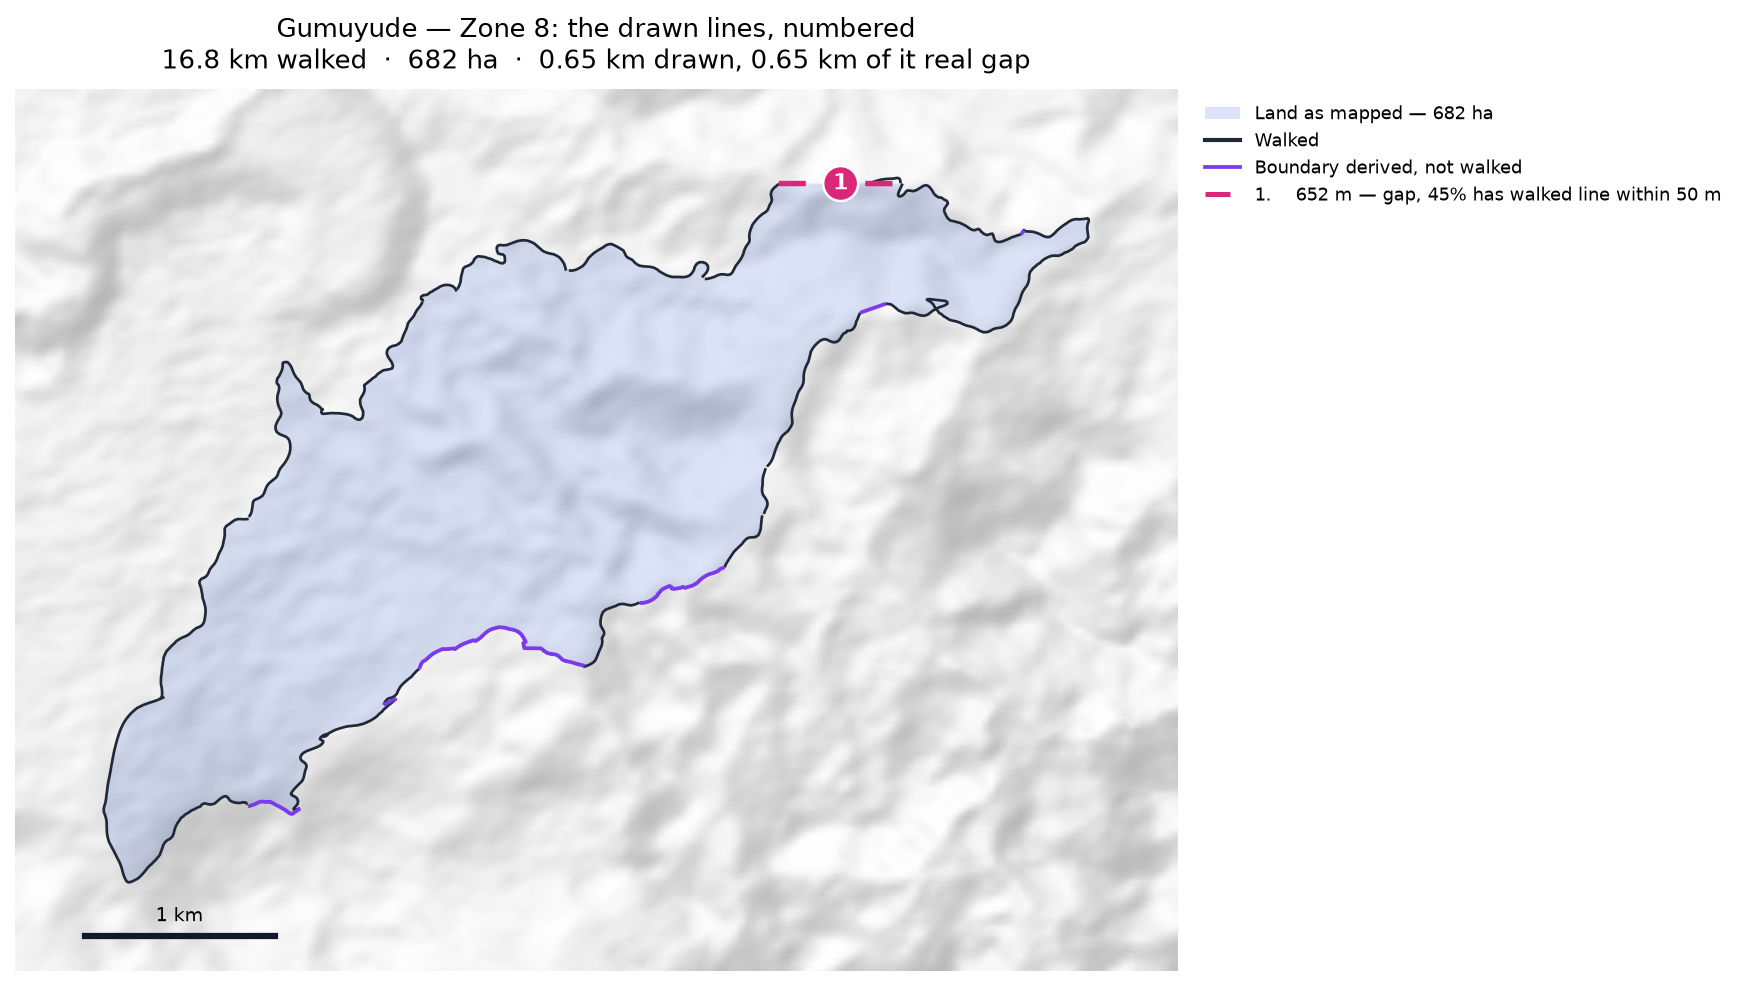
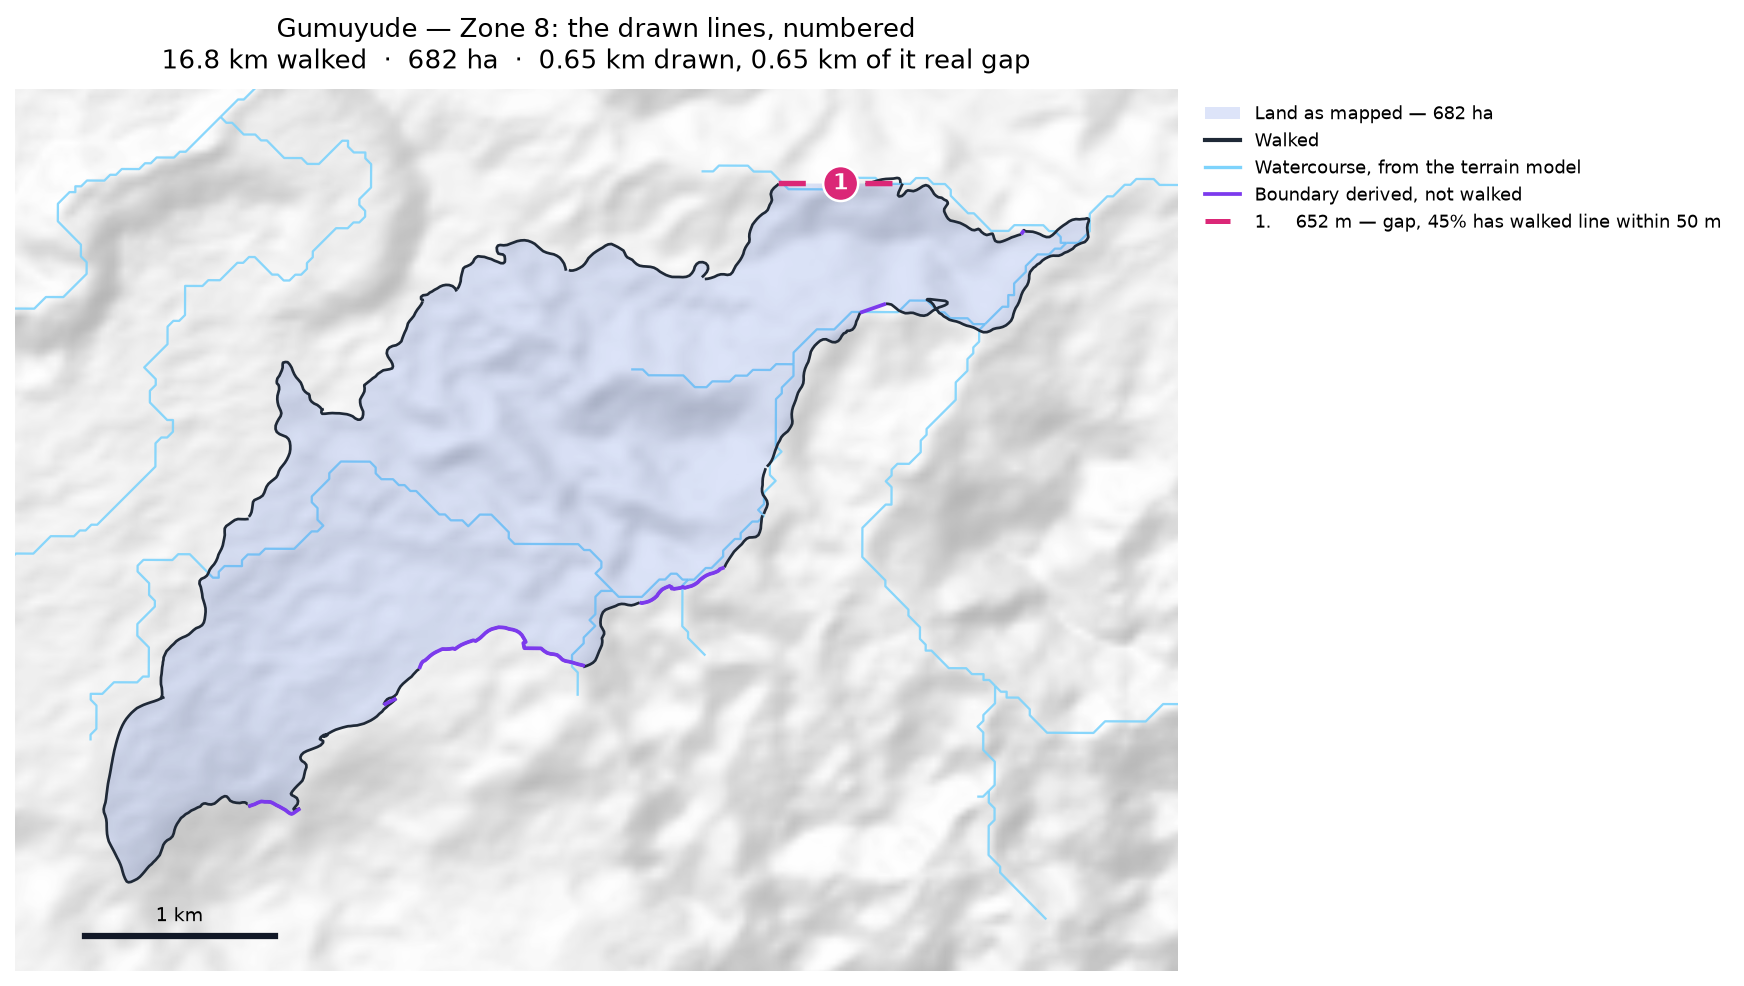
Approve a clan's map into the document, and put water on the chord maps
scripts/approve.py records the end of a clan's review: the map as agreed, the
date, and what is still to be done. The map is copied out of output/queries,
which every run rebuilds, into output/clans/approved, which nothing does — a
map that changes after it was agreed is not an approved map, and the clan
page would show something nobody had seen. Where an approval exists the clan
page uses that map and lists the outstanding work under "To complete this
map".

Gumuyude approved, with two items: walk the 652 m gap, and confirm what the
north-eastern notch is.

The chord maps now carry the modelled drainage behind them. Villages and
roads were the ask and cannot be had: our own road data is 13 fragments
totalling 4.3 km, villages appear only as names in the stewards' notes with
no positions, and OpenStreetMap is blocked by the environment's network
policy. Water is what the stewards navigate by in any case — down the Salm
to the Makamata fall, along the Baraje — and it is already in the repository.

Claude-Session: https://claude.ai/code/session_01K6X75MkuiGQ9rmgDZx45vk

diff --git a/scripts/build_report_docx.js b/scripts/build_report_docx.js
@@ -352,12 +352,24 @@ for (const c of clans) {
     body.push(p(`A GPX file for this clan is supplied as ${c.gpx}. Loaded onto the phone or handheld the boundary was mapped with, it shows the stewards' own tracks` + (c.gpx_gaps ? `, the ${c.gpx_gaps} gap${c.gpx_gaps===1?"":"s"} drawn as straight lines, and a waypoint at each end of every gap so a steward can navigate to where the walking stopped and carry on.` : ` and confirms the boundary closes with no gaps to walk.`), {size:21}));
   }
 
-  if (c.map) {
+  // An approved map is one that was looked at with someone who knows the
+  // ground and agreed, kept where re-running the pipeline cannot change it.
+  // Where there is one, it is the map this page shows.
+  if (c.approved && c.approved.map) {
+    body.push(p("Map", {bold:true, size:21, para:{ spacing:{ before:160 } }}));
+    body.push(img(path.join("output/clans/approved", c.approved.map), 620, 470));
+    body.push(note(`Approved ${c.approved.on}. Numbered lines are stretches the pipeline drew rather than anyone walked, each measured by how much walked line runs beside it. Neighbouring clans are named where they lie; their boundaries are not drawn.`));
+  } else if (c.map) {
     body.push(p("Map", {bold:true, size:21, para:{ spacing:{ before:160 } }}));
     body.push(img(path.join("output/clans", c.map), 620, 470));
     body.push(note(c.n_stewards > 1
       ? "Each steward's line and the area it gives alone (dashed); the survey they combine into, dotted; the stretches nobody walked in pink. Neighbouring clans are named where they lie; their boundaries are not drawn."
       : "The walk and the area it gives (dotted), with the stretches nobody walked in pink. Neighbouring clans are named where they lie; their boundaries are not drawn."));
+  }
+
+  if (c.approved && c.approved.todo && c.approved.todo.length) {
+    body.push(p("To complete this map", {bold:true, size:21}));
+    body.push(...bullets(c.approved.todo));
   }
 }
 

diff --git a/scripts/approve.py b/scripts/approve.py
@@ -1,0 +1,115 @@
+#!/usr/bin/env python3
+"""Mark a clan's map as approved, and record what is left to do on it.
+
+Clan by clan, the chord map is looked at with someone who knows the ground,
+the chords are discussed, what can be fixed is fixed, and what is left is
+written down. This records the end of that: the map as approved, the date it
+was approved, and the work still outstanding.
+
+An approved map does not move afterwards. The file is copied out of
+output/queries, which is rebuilt whenever anything is re-run, into
+output/clans/approved, which is not. A map that changes after it was agreed
+is not an approved map, and the clan page would be showing something nobody
+had seen.
+
+The outstanding items go on the clan's page under "To complete this map",
+in the order given.
+
+Usage:
+    python scripts/approve.py --clan Gumuyude \\
+        --todo "Walk the 652 m gap on the northern shoulder" \\
+        --todo "Confirm with the clan what the notch on the north-east is"
+"""
+
+from __future__ import annotations
+
+import argparse
+import json
+import shutil
+import sys
+from datetime import date
+from pathlib import Path
+
+import geopandas as gpd
+
+sys.path.insert(0, str(Path(__file__).resolve().parent))
+import dataio  # noqa: E402
+
+REGISTER = dataio.REPO_ROOT / "data" / "reference" / "approved.json"
+APPROVED_DIR = dataio.OUT_DIR / "clans" / "approved"
+
+
+def load() -> dict:
+    if not REGISTER.exists():
+        return {}
+    try:
+        return json.loads(REGISTER.read_text(encoding="utf-8"))
+    except Exception:
+        return {}
+
+
+def approved(unit: str | None = None):
+    """What has been approved, for the report to read."""
+    book = load()
+    return book if unit is None else book.get(unit)
+
+
+def main(argv: list[str] | None = None) -> int:
+    parser = argparse.ArgumentParser(
+        description=__doc__,
+        formatter_class=argparse.RawDescriptionHelpFormatter)
+    parser.add_argument("--clan", required=True)
+    parser.add_argument("--todo", action="append", default=[],
+                        help="one thing still to be done; repeat for each")
+    parser.add_argument("--map", type=Path, default=None,
+                        help="the map approved (default: this clan's chord map)")
+    parser.add_argument("--withdraw", action="store_true",
+                        help="remove an approval, if the map has moved on")
+    args = parser.parse_args(argv)
+
+    tracks = gpd.read_file(dataio.SMOOTHED_DIR / "mca_tracks_smoothed.gpkg",
+                           layer="tracks_smoothed")
+    tracks = dataio.publishable(tracks, quiet=True)
+    tracks["_unit"] = dataio.survey_group(tracks)
+    match = tracks[tracks.clan.astype(str).str.lower() == args.clan.lower()]
+    if match.empty:
+        print(f"No clan matching {args.clan!r}.")
+        return 1
+    unit = match._unit.iloc[0]
+
+    book = load()
+    if args.withdraw:
+        if book.pop(unit, None) is None:
+            print(f"{unit} was not approved.")
+            return 1
+        REGISTER.write_text(json.dumps(book, indent=1, ensure_ascii=False)
+                            + "\n", encoding="utf-8")
+        print(f"Approval withdrawn for {unit}.")
+        return 0
+
+    source = args.map or (dataio.OUT_DIR / "queries"
+                          / f"{dataio.safe_name(unit)}_chords.png")
+    if not source.exists():
+        print(f"No map at {source}. Run scripts/chord_map.py first.")
+        return 1
+    APPROVED_DIR.mkdir(parents=True, exist_ok=True)
+    kept = APPROVED_DIR / f"{dataio.safe_name(unit)}.png"
+    shutil.copyfile(source, kept)
+
+    book[unit] = {"on": date.today().isoformat(),
+                  "map": kept.name,
+                  "todo": args.todo}
+    REGISTER.write_text(json.dumps(book, indent=1, ensure_ascii=False) + "\n",
+                        encoding="utf-8")
+    print(f"{unit}: map approved {book[unit]['on']}, kept as {kept}")
+    if args.todo:
+        print("To complete this map:")
+        for item in args.todo:
+            print(f"  - {item}")
+    else:
+        print("Nothing outstanding recorded.")
+    return 0
+
+
+if __name__ == "__main__":
+    sys.exit(main())

diff --git a/scripts/chord_map.py b/scripts/chord_map.py
@@ -50,6 +50,7 @@ import terrain  # noqa: E402
 
 GAP = "#db2777"
 TIE = "#15803d"
+WATER = "#7dd3fc"
 
 # Numbers have to survive a fix. A chord discussed as "number 3" is still
 # number 3 next time, a chord that has been closed simply disappears from the
@@ -141,6 +142,22 @@ def render(unit: str, group: gpd.GeoDataFrame, built: dict, rows: list,
     axis.set_xlim(window[0], window[2])
     axis.set_ylim(window[1], window[3])
 
+    # Water, for somewhere to stand. The Clan Stewards describe boundaries by
+    # rivers — down the Salm to the Makamata fall, along the Baraje — so the
+    # drainage is the context that means something here. It is modelled from
+    # the 30 m DEM, not surveyed, so it is drawn faintly and named as such.
+    try:
+        streams = gpd.read_file(dataio.REPO_ROOT / "data" / "reference"
+                                / "hydro" / "streams.gpkg").to_crs(
+                                    dataio.METRIC_CRS)
+        from shapely.geometry import box
+        streams = streams[streams.intersects(box(*window))]
+        if not streams.empty:
+            streams.plot(ax=axis, color=WATER, linewidth=1.1, zorder=1,
+                         alpha=0.9)
+    except Exception:
+        streams = None
+
     gpd.GeoSeries([built["geometry"]], crs=dataio.METRIC_CRS).plot(
         ax=axis, color="#1d4ed8", alpha=0.15, edgecolor="none", zorder=2)
     group.plot(ax=axis, color="#1f2937", linewidth=1.3, zorder=5)
@@ -181,6 +198,9 @@ def render(unit: str, group: gpd.GeoDataFrame, built: dict, rows: list,
     handles = [Patch(facecolor="#1d4ed8", alpha=0.15,
                      label=f"Land as mapped — {built['area_ha']:,.0f} ha"),
                Line2D([0], [0], color="#1f2937", lw=2, label="Walked")]
+    if streams is not None and not streams.empty:
+        handles.append(Line2D([0], [0], color=WATER, lw=1.6,
+                              label="Watercourse, from the terrain model"))
     if derived is not None and len(derived):
         handles.append(Line2D([0], [0], color="#7c3aed", lw=1.8,
                               label="Boundary derived, not walked"))

diff --git a/scripts/report_data.py b/scripts/report_data.py
@@ -33,6 +33,7 @@ from shapely.geometry import Polygon
 from shapely.ops import unary_union
 
 sys.path.insert(0, str(Path(__file__).resolve().parent))
+import approve  # noqa: E402
 import closure  # noqa: E402
 import dataio  # noqa: E402
 import polygons as polygon_tools  # noqa: E402
@@ -470,6 +471,7 @@ def gather(tracks_path: Path, polygons_path: Path, clans_dir: Path,
             # of the file name. Every clan map went missing from the document
             # that way, with no error anywhere.
             "map": _json(join_row["map"]) if join_row is not None else None,
+            "approved": approve.approved(unit),
             "sacred": sacred_sites(unit, group),
             "field_notes": notes.get(unit, {}).get("notes", []),
             "field_source": notes.get(unit, {}).get("source"),
